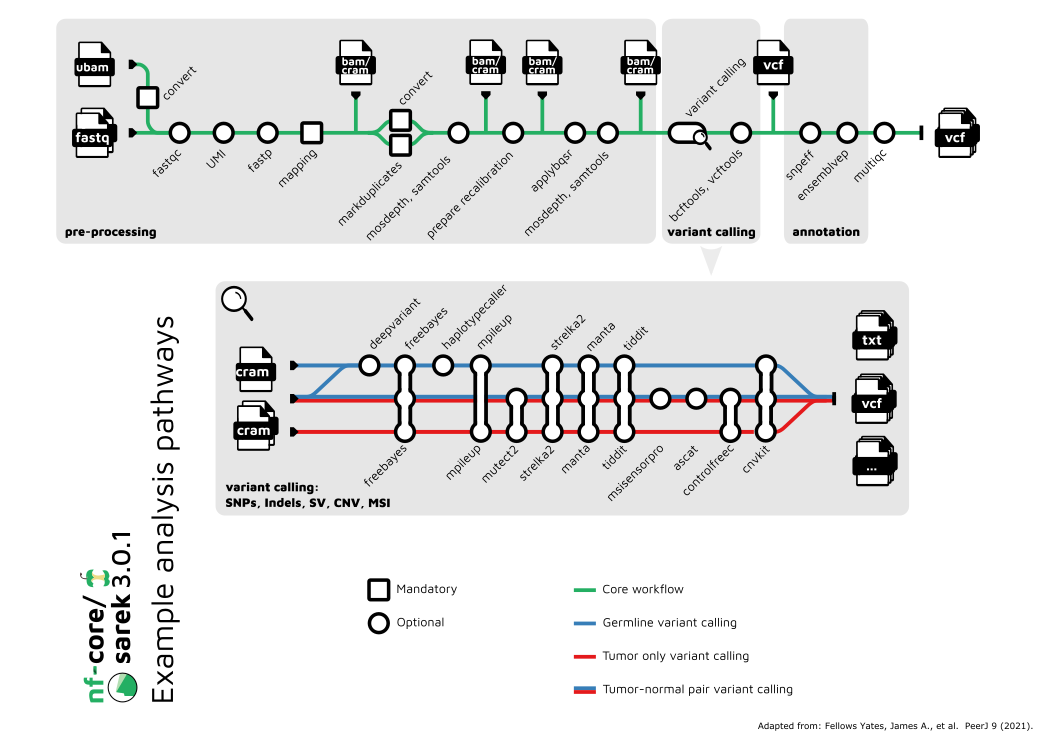
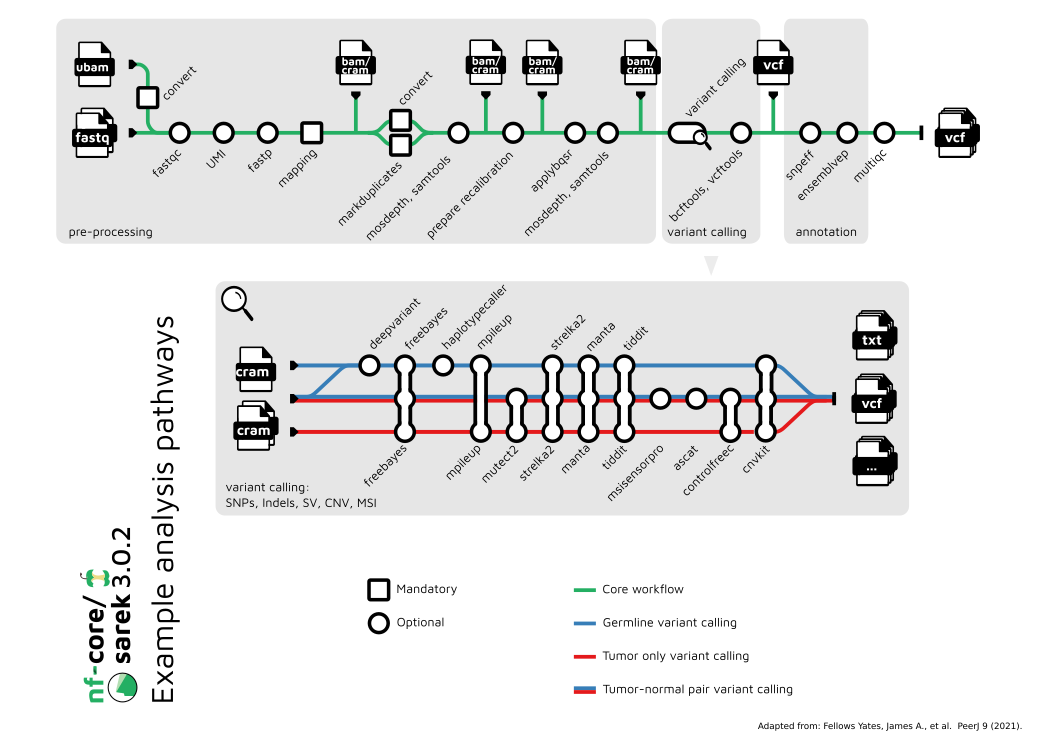
bump to 3.0.2

diff --git a/CHANGELOG.md b/CHANGELOG.md
@@ -28,6 +28,7 @@ and this project adheres to [Semantic Versioning](https://semver.org/spec/v2.0.0
 - [#733](https://github.com/nf-core/sarek/pull/733) - Add description for params.cf_chrom_len
 - [#734](https://github.com/nf-core/sarek/pull/734) - nf-core modules update -a
 - [#736](https://github.com/nf-core/sarek/pull/736) - More extensive CI for default test
+- [#740](https://github.com/nf-core/sarek/pull/740) - Update version
 
 ### Fixed
 
